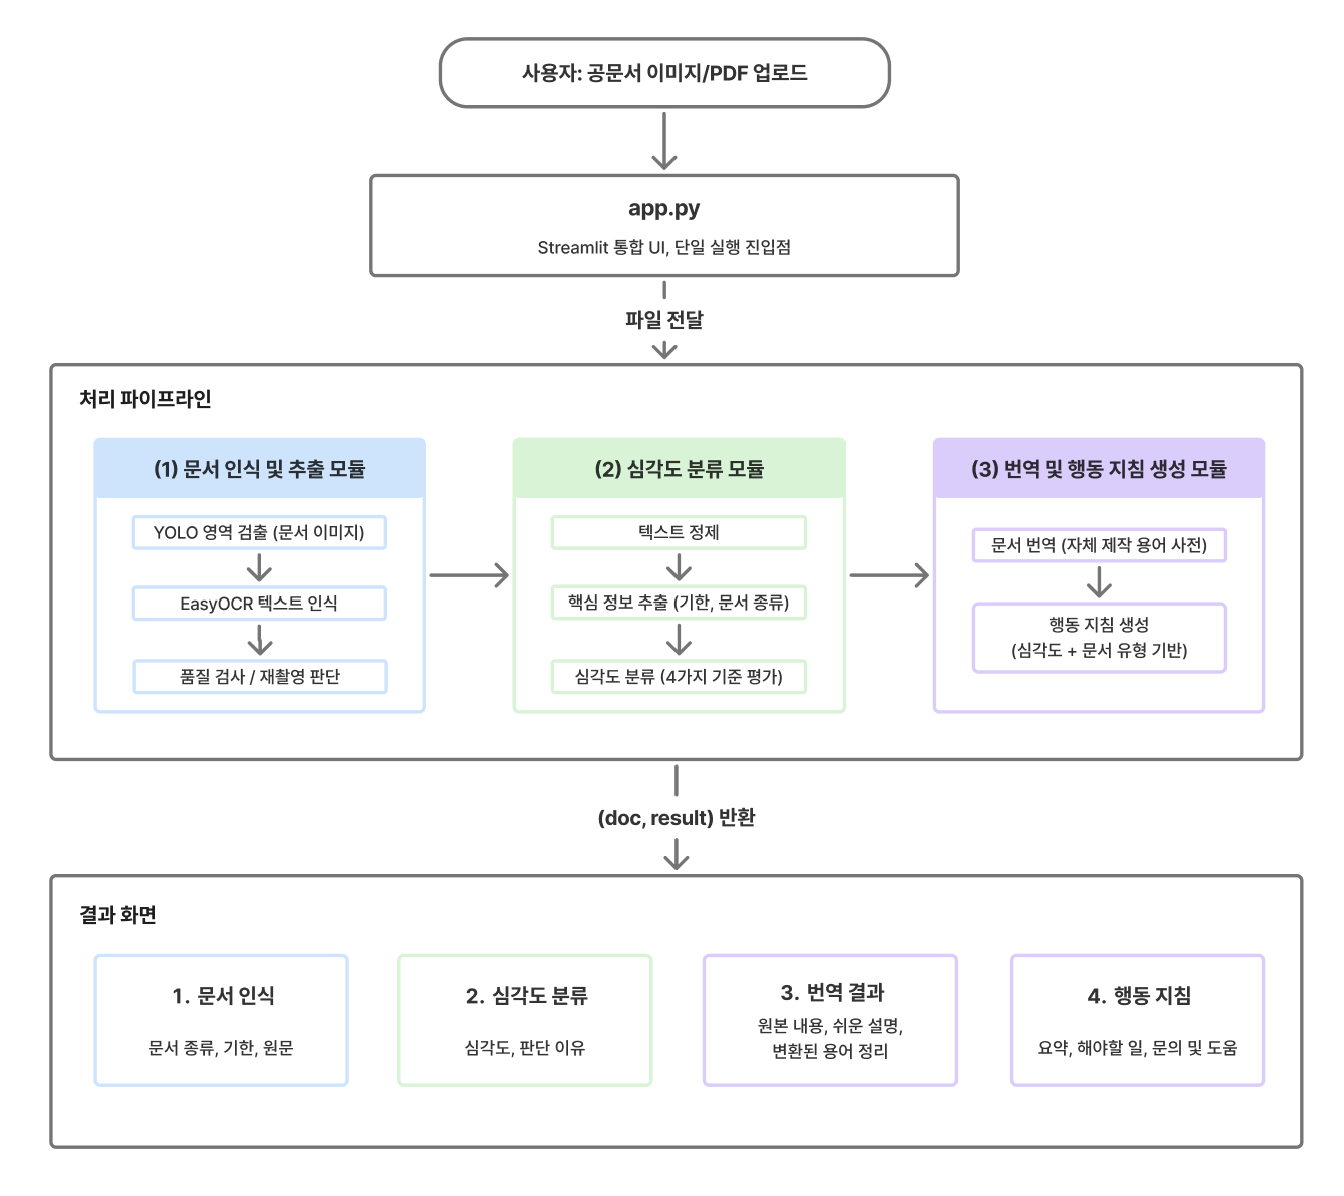
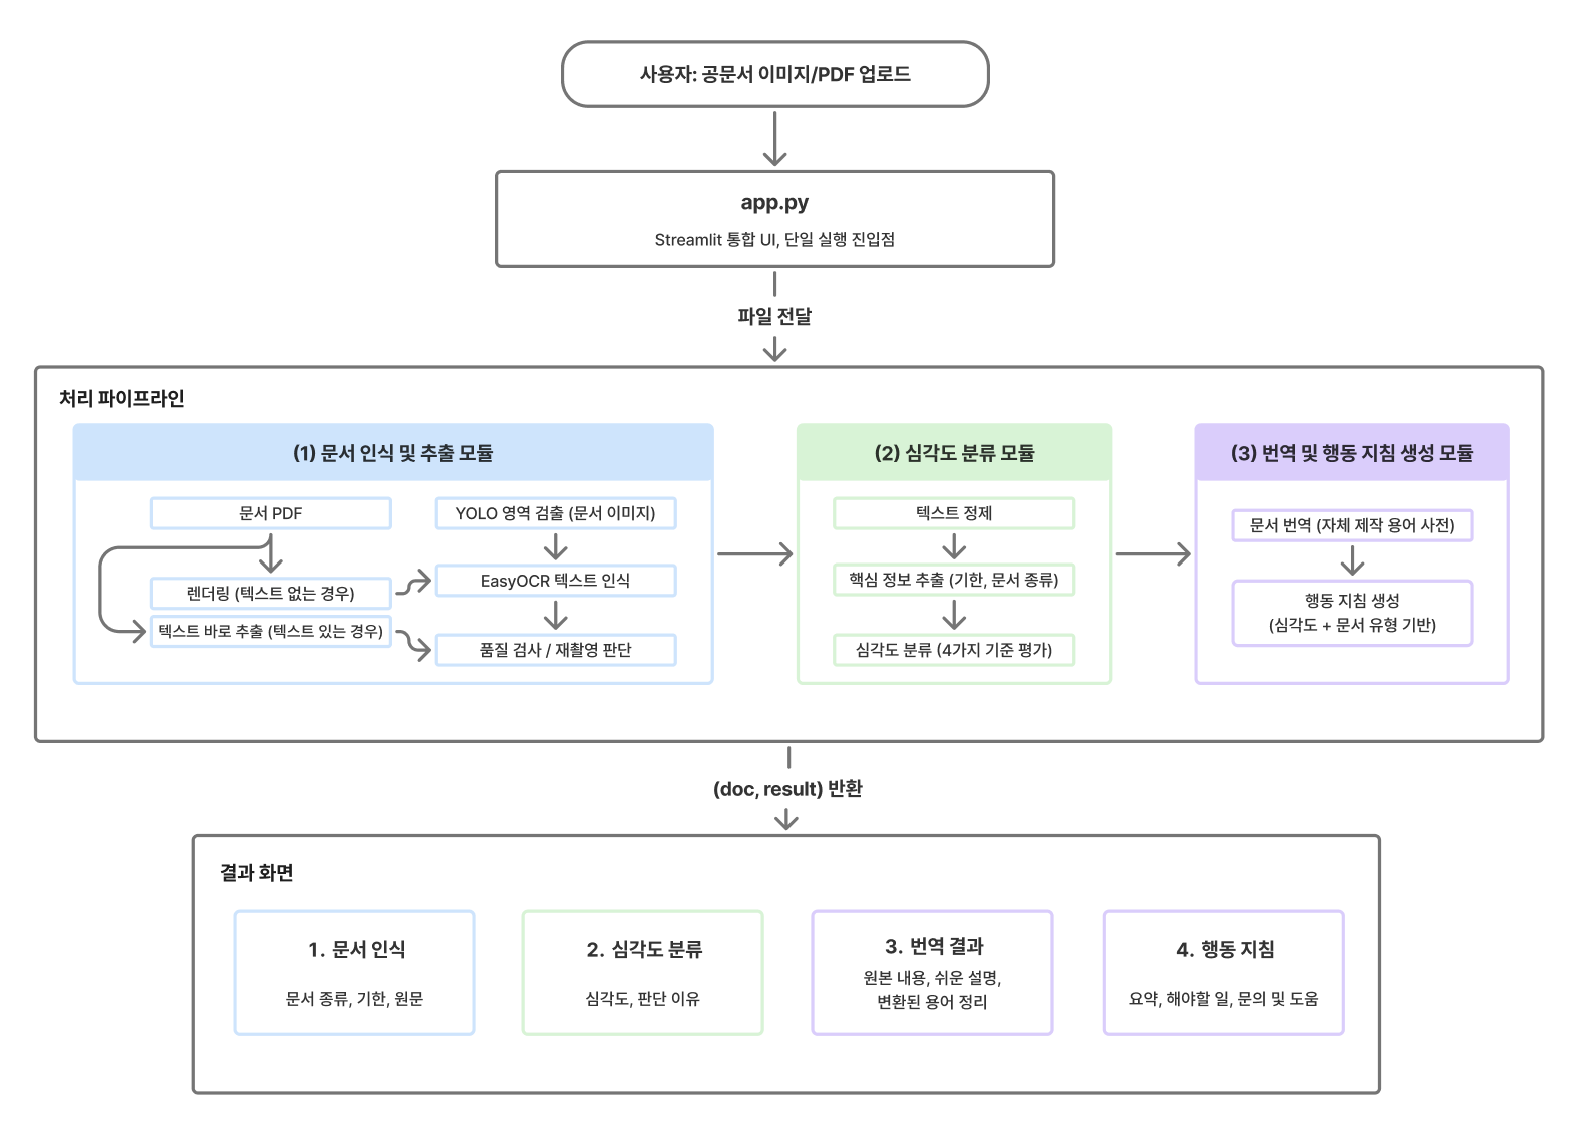
Update README.md and img7.png

Changed region(s): [[0.0312, 0.0312, 1.0, 0.9982], [0.9375, 0.8111, 0.9688, 0.9046]]

diff --git a/README.md b/README.md
@@ -33,34 +33,34 @@
 #### 실행 결과
 
 - 초기 화면
-    <p align="center">
-    <img width="900" src="./images/img1.png">
-    </p>
+  <p align="center">
+  <img width="900" src="./images/img1.png">
+  </p>
 
 - 사진 삽입 시
-    <p align="center">
-    <img width="900" src="./images/img2.png">
-    </p>
+  <p align="center">
+  <img width="900" src="./images/img2.png">
+  </p>
 
 - 문서 인식 결과
-    <p align="center">
-    <img width="900" src="./images/img3.png">
-    </p>
+  <p align="center">
+  <img width="900" src="./images/img3.png">
+  </p>
 
 - 심각도 분류 결과
-    <p align="center">
-    <img width="900" src="./images/img4.png">
-    </p>
+  <p align="center">
+  <img width="900" src="./images/img4.png">
+  </p>
 
 - 번역 결과
-    <p align="center">
-    <img width="900" src="./images/img5.png">
-    </p>
+  <p align="center">
+  <img width="900" src="./images/img5.png">
+  </p>
 
 - 행동 지침 결과
-    <p align="center">
-    <img width="900" src="./images/img6.png">
-    </p>
+  <p align="center">
+  <img width="900" src="./images/img6.png">
+  </p>
 
 ---
 
@@ -129,7 +129,7 @@
 - PyMuPDF
 - OpenCV
 - NumPy
-- torch
+- PyTorch
 
 #### 실행
 
@@ -137,22 +137,18 @@
     ```bash
     conda create -n official_doc_helper python=3.11
     ```
-    
 2. 가상환경 실행
     ```bash
     conda activate official_doc_helper
     ```
-    
 3. `official_doc_helper_integrated/` 폴더로 이동
     ```bash
     cd ./official_doc_helper_integrated/ # 폴더가 있는 경로에 맞게 수정
     ```
-    
 4. 패키지 설치
     ```bash
     pip install -r requirements.txt
     ```
-    
 5. `app.py` 실행
     ```bash
     streamlit run app.py
@@ -170,23 +166,20 @@
 
 #### 데이터셋
 
--공문서 촬영 이미지와 VOC(XML) 형식의 바운딩 박스 주석으로 구성 (dataset.zip)
--클래스: paper 단일 클래스
--VOC(XML) 주석을 YOLO 형식(정규화된 cx, cy, w, h)으로 변환
--학습/검증 데이터를 8:2 비율로 무작위 분할 (random.seed(42)로 재현성 확보)
-
+-공문서 촬영 이미지와 VOC(XML) 형식의 바운딩 박스 주석으로 구성 (dataset.zip) -클래스: paper 단일 클래스
+-VOC(XML) 주석을 YOLO 형식(정규화된 cx, cy, w, h)으로 변환 -학습/검증 데이터를 8:2 비율로 무작위 분할 (random.seed(42)로 재현성 확보)
 
 #### 학습 환경 및 설정
 
 -Google Colab (GPU 런타임)
 -Ultralytics YOLO
 
-| 항목             | 값                  |
-| ---------------- | ------------------- |
-|Base model        |YOLOv8n (yolov8n.pt) |
-|epochs            |50                   |
-|imgsz             |640                  |
-|batch             |8                    |
+| 항목       | 값                   |
+| ---------- | -------------------- |
+| Base model | YOLOv8n (yolov8n.pt) |
+| epochs     | 50                   |
+| imgsz      | 640                  |
+| batch      | 8                    |
 
 #### 학습 절차
 
@@ -218,38 +211,39 @@
     metrics = model.val()
     print("mAP50:", metrics.box.map50)
     ```
-    
+
 #### 학습 결과
 
 검증 데이터셋(val) 기준 성능은 다음과 같다.
 
-| 지표             | 값                  |
-| ---------------- | ------------------- |
-|Precision         |0.999                |
-|Recall            |1.000                |
-|mAP50             |0.995                |
-|mAP50-95          |0.862                |
+| 지표      | 값    |
+| --------- | ----- |
+| Precision | 0.999 |
+| Recall    | 1.000 |
+| mAP50     | 0.995 |
+| mAP50-95  | 0.862 |
 
 단일 클래스(paper) 검출 과제로, 한 이미지에 종이 영역이 크게 한 개 존재하는 단순한 형태이기 때문에 mAP50가 매우 높게 측정되었다. 실제 사용 환경에서는 EasyOCR 단계의 품질 검사(재촬영 판단)와 함께 동작하여 인식 안정성을 보완한다.
 
 #### 산출물
+
 - 학습 결과 가중치: runs/detect/train/weights/best.pt
 - 이 best.pt를 OCR 모듈(ocr_pipeline.py)이 문서 영역 검출에 사용한다.
-
 
 ---
 
 ## 기술 스택
 
-| 구분             | 사용 기술           |
-| ---------------- | ------------------- |
-| Language         | Python              |
-| UI               | Streamlit           |
-| Object Detection | Ultralytics         |
-| Image Processing | OpenCV, NumPy       |
-| PDF Processing   | PyMuPDF             |
-| OCR              | EasyOCR             |
-| Collaboration    | Git, GitHub, Notion |
+| 구분                    | 사용 기술           |
+| ----------------------- | ------------------- |
+| Language                | Python              |
+| UI                      | Streamlit           |
+| Object Detection        | Ultralytics         |
+| Deep Learning Framework | PyTorch             |
+| Image Processing        | OpenCV, NumPy       |
+| PDF Processing          | PyMuPDF             |
+| OCR                     | EasyOCR             |
+| Collaboration           | Git, GitHub, Notion |
 
 ---
 